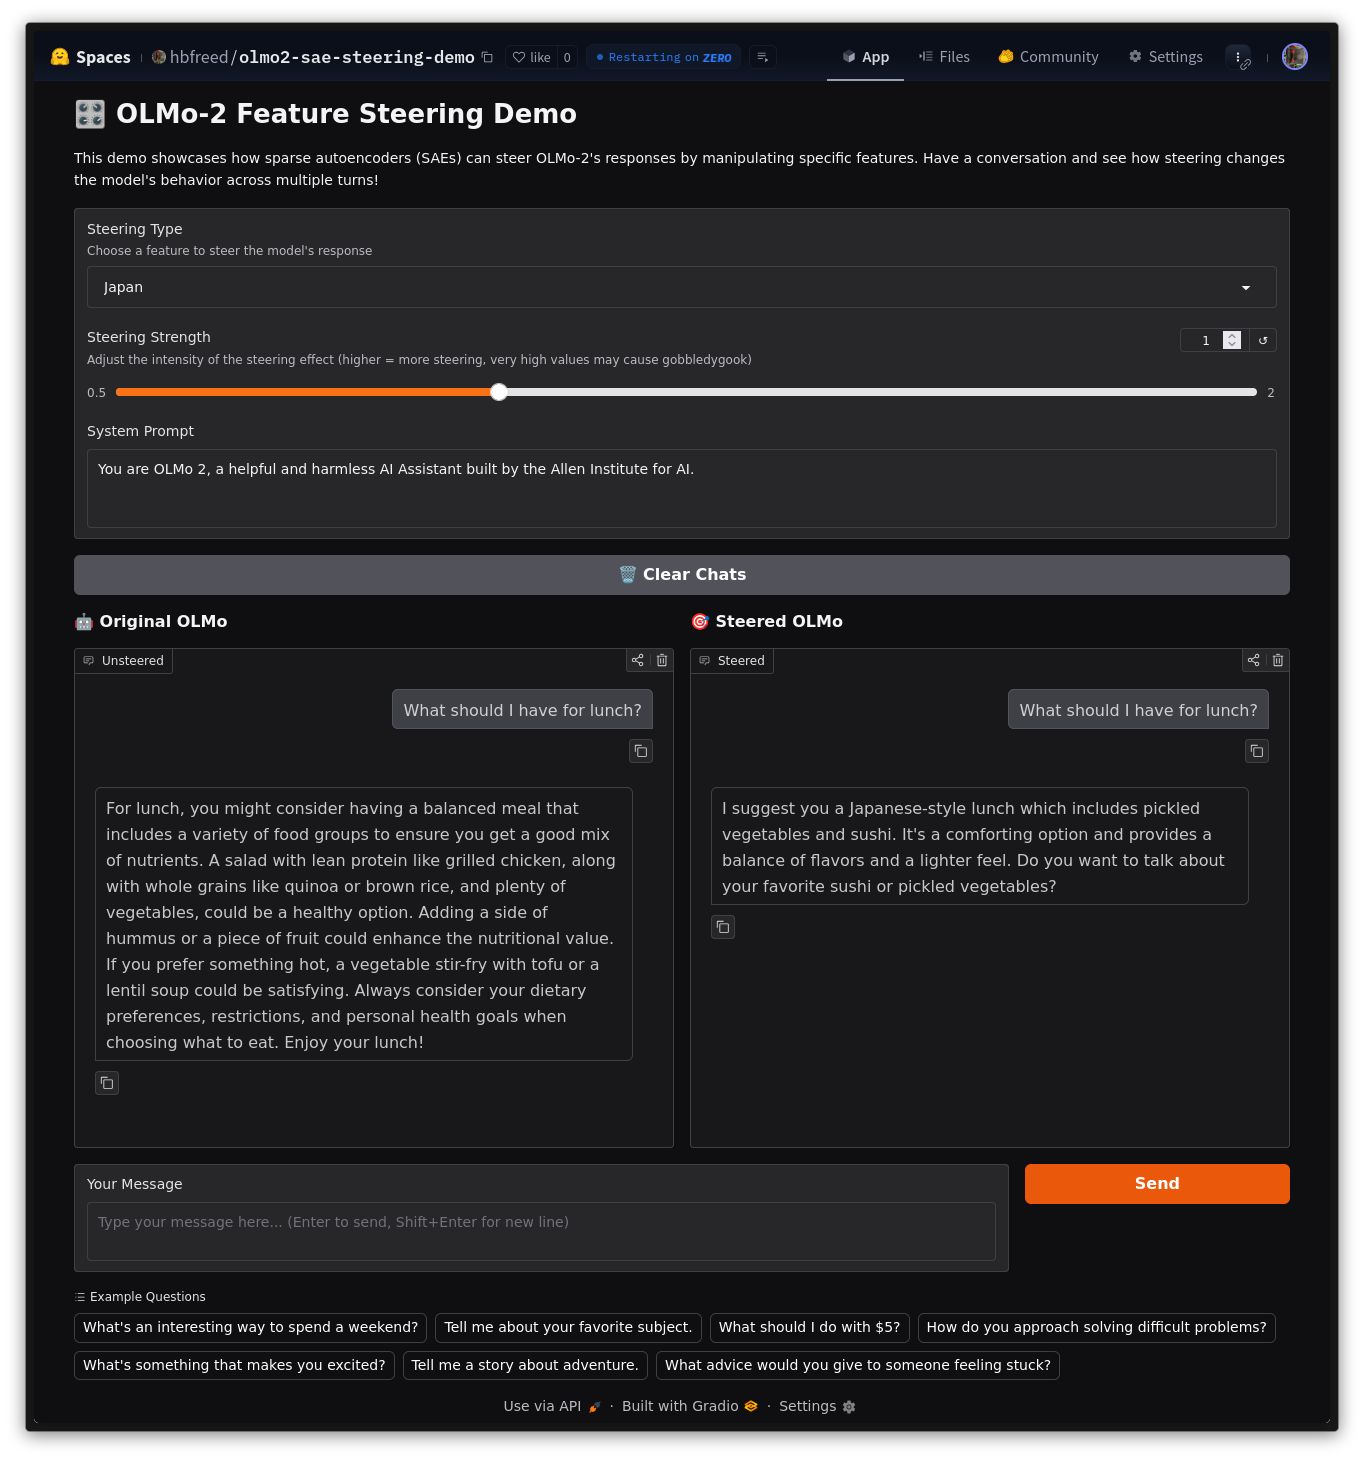
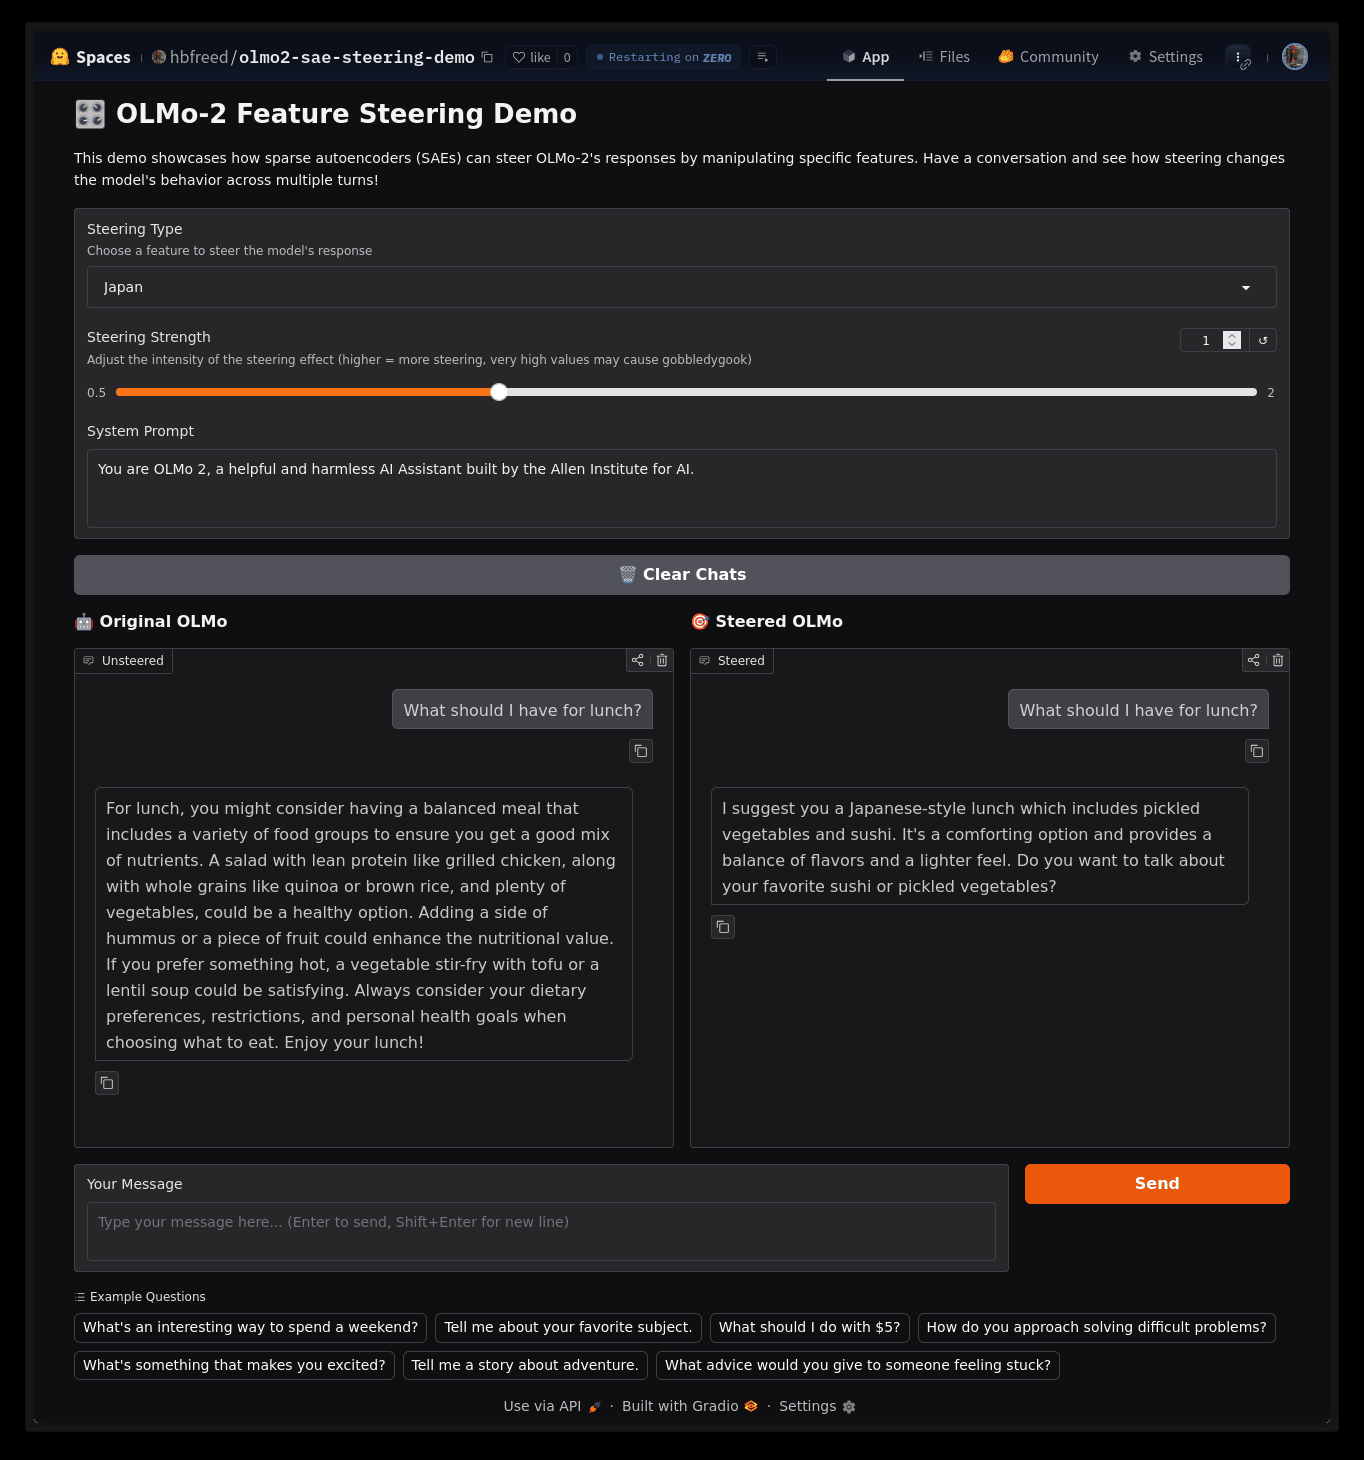
fix broken internal links, optimize images
- point old variable-flexolmo links at the current URL and add a
  redirect for the retired /2025/12/19/variable-flexolmo.html path
- convert 2MB hero PNG to 300KB JPEG; quantize two large PNGs
  (routing viz 427->141KB, demo screenshot 224->76KB)

Claude-Session: https://claude.ai/code/session_01P8GXCkLJh8hskKopAD6nAx

Changed region(s): [[0.0, 0.0, 1.0, 1.0]]

diff --git a/_posts/2026-01-15-width-depth-latency.md b/_posts/2026-01-15-width-depth-latency.md
@@ -9,7 +9,7 @@ header:
 
 ## A quick Thursday set of visualizations
 
-I've been working on pruning models [a](https://hbfreed.com/2025/12/19/variable-flexolmo.html) [bit](https://hbfreed.com/2026/01/05/pruning-olmo7b.html) lately, mainly based off of [this Nvidia paper](https://arxiv.org/abs/2407.14679). Mistral recently launched their [Ministral 3 models](https://huggingface.co/collections/mistralai/ministral-3), [which were pruned from Mistral Small 3.1](https://arxiv.org/pdf/2601.08584#section.1). In the Nvidia paper, they find that pruning width keeps performance better than pruning depth[^1]. 
+I've been working on pruning models [a](https://hbfreed.com/2026/01/28/variable-flexolmo.html) [bit](https://hbfreed.com/2026/01/05/pruning-olmo7b.html) lately, mainly based off of [this Nvidia paper](https://arxiv.org/abs/2407.14679). Mistral recently launched their [Ministral 3 models](https://huggingface.co/collections/mistralai/ministral-3), [which were pruned from Mistral Small 3.1](https://arxiv.org/pdf/2601.08584#section.1). In the Nvidia paper, they find that pruning width keeps performance better than pruning depth[^1]. 
 
 
 What I think they don't address enough is the fact that each additional layer adds latency. Since layers can't be computed in parallel, latency increases substantially. Here are some plots illustrating just that. I focused on [Baguettotron](https://huggingface.co/PleIAs/Baguettotron) as a comparison: at 80 layers with a hidden size of 576, it's such an extreme aspect ratio that I thought it would make for a good test case. Life is about trade offs: for many edge use-cases, we're probably concerned with the most capable model that fits on the device, not necessarily raw throughput. So, I had Claude Code whip up the comparison code and make some plots (I was really disappointed with the plots that it came up with, so I ended up telling it which plots to make).

diff --git a/_posts/2026-01-05-pruning-olmo7b.md b/_posts/2026-01-05-pruning-olmo7b.md
@@ -25,7 +25,7 @@ Note that only pruning width seems to slightly defeat the purpose of making smal
 Here's a [quick study](https://hbfreed.com/2026/01/15/width-depth-latency.html) comparing latencies across different aspect ratios.
 
 ## Results (So Far)
-Taking a break on this while I work on [Variable FlexOlmo](https://hbfreed.com/2025/12/19/variable-flexolmo.html). So far, I've pruned and distilled [one version](https://huggingface.co/hbfreed/pruned_olmo3_4096_16_29_distilled) of Olmo-3-7B Instruct, my smallest version, about 3.5B parameters. On ~500M tokens (one epoch through our dataset), we got the following performance on 50 questions of GSM8K:
+Taking a break on this while I work on [Variable FlexOlmo](https://hbfreed.com/2026/01/28/variable-flexolmo.html). So far, I've pruned and distilled [one version](https://huggingface.co/hbfreed/pruned_olmo3_4096_16_29_distilled) of Olmo-3-7B Instruct, my smallest version, about 3.5B parameters. On ~500M tokens (one epoch through our dataset), we got the following performance on 50 questions of GSM8K:
 
 | Model | MGSM | Output Tokens | Time |
 |-------|------|---------------|------|

diff --git a/_posts/2026-01-28-variable-flexolmo.md b/_posts/2026-01-28-variable-flexolmo.md
@@ -2,12 +2,13 @@
 title: "Variable FlexOlmo"
 description: "Pruning FlexOlmo's math expert down to ~800M parameters with knowledge distillation to show that smaller experts can still contribute to the combined MoE."
 header:
-  og_image: /assets/images/variable-flexolmo/variable_flexolmo.png
+  og_image: /assets/images/variable-flexolmo/variable_flexolmo.jpg
 redirect_from:
   - /2025/12/19/variable-flexolmo/
+  - /2025/12/19/variable-flexolmo.html
 ---
 
-![Variable FlexOlmo](/assets/images/variable-flexolmo/variable_flexolmo.png)
+![Variable FlexOlmo](/assets/images/variable-flexolmo/variable_flexolmo.jpg)
 
 
 I've been working on variable-sized experts in MoEs ([previous post](https://hbfreed.com/2025/12/16/variable-size-experts.html)) using a modified version of [Megablocks](https://github.com/hbfreed/megablocks-variable). The TL;DR from that work: at my scale, I didn't find efficiencies beyond what you'd get from simply using narrower experts across the board. But since I have this hammer, I've been looking for nails.
